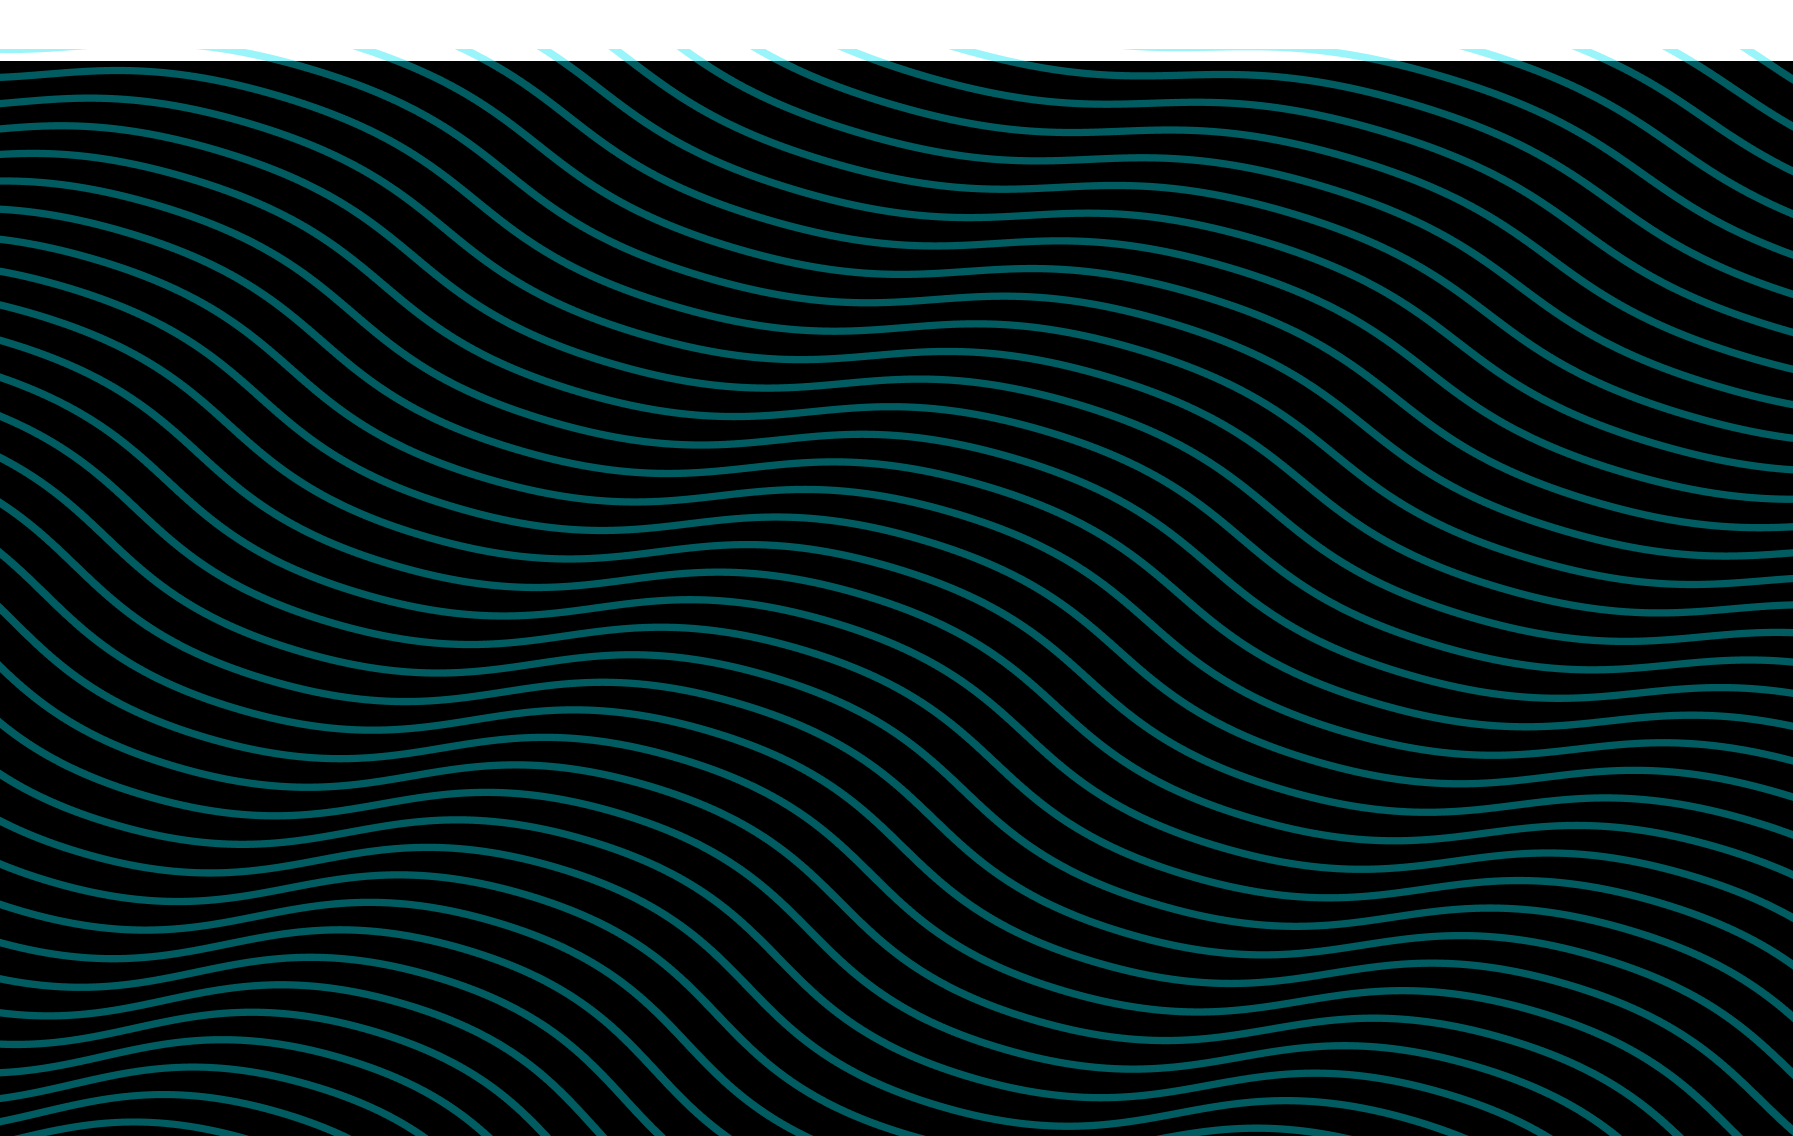
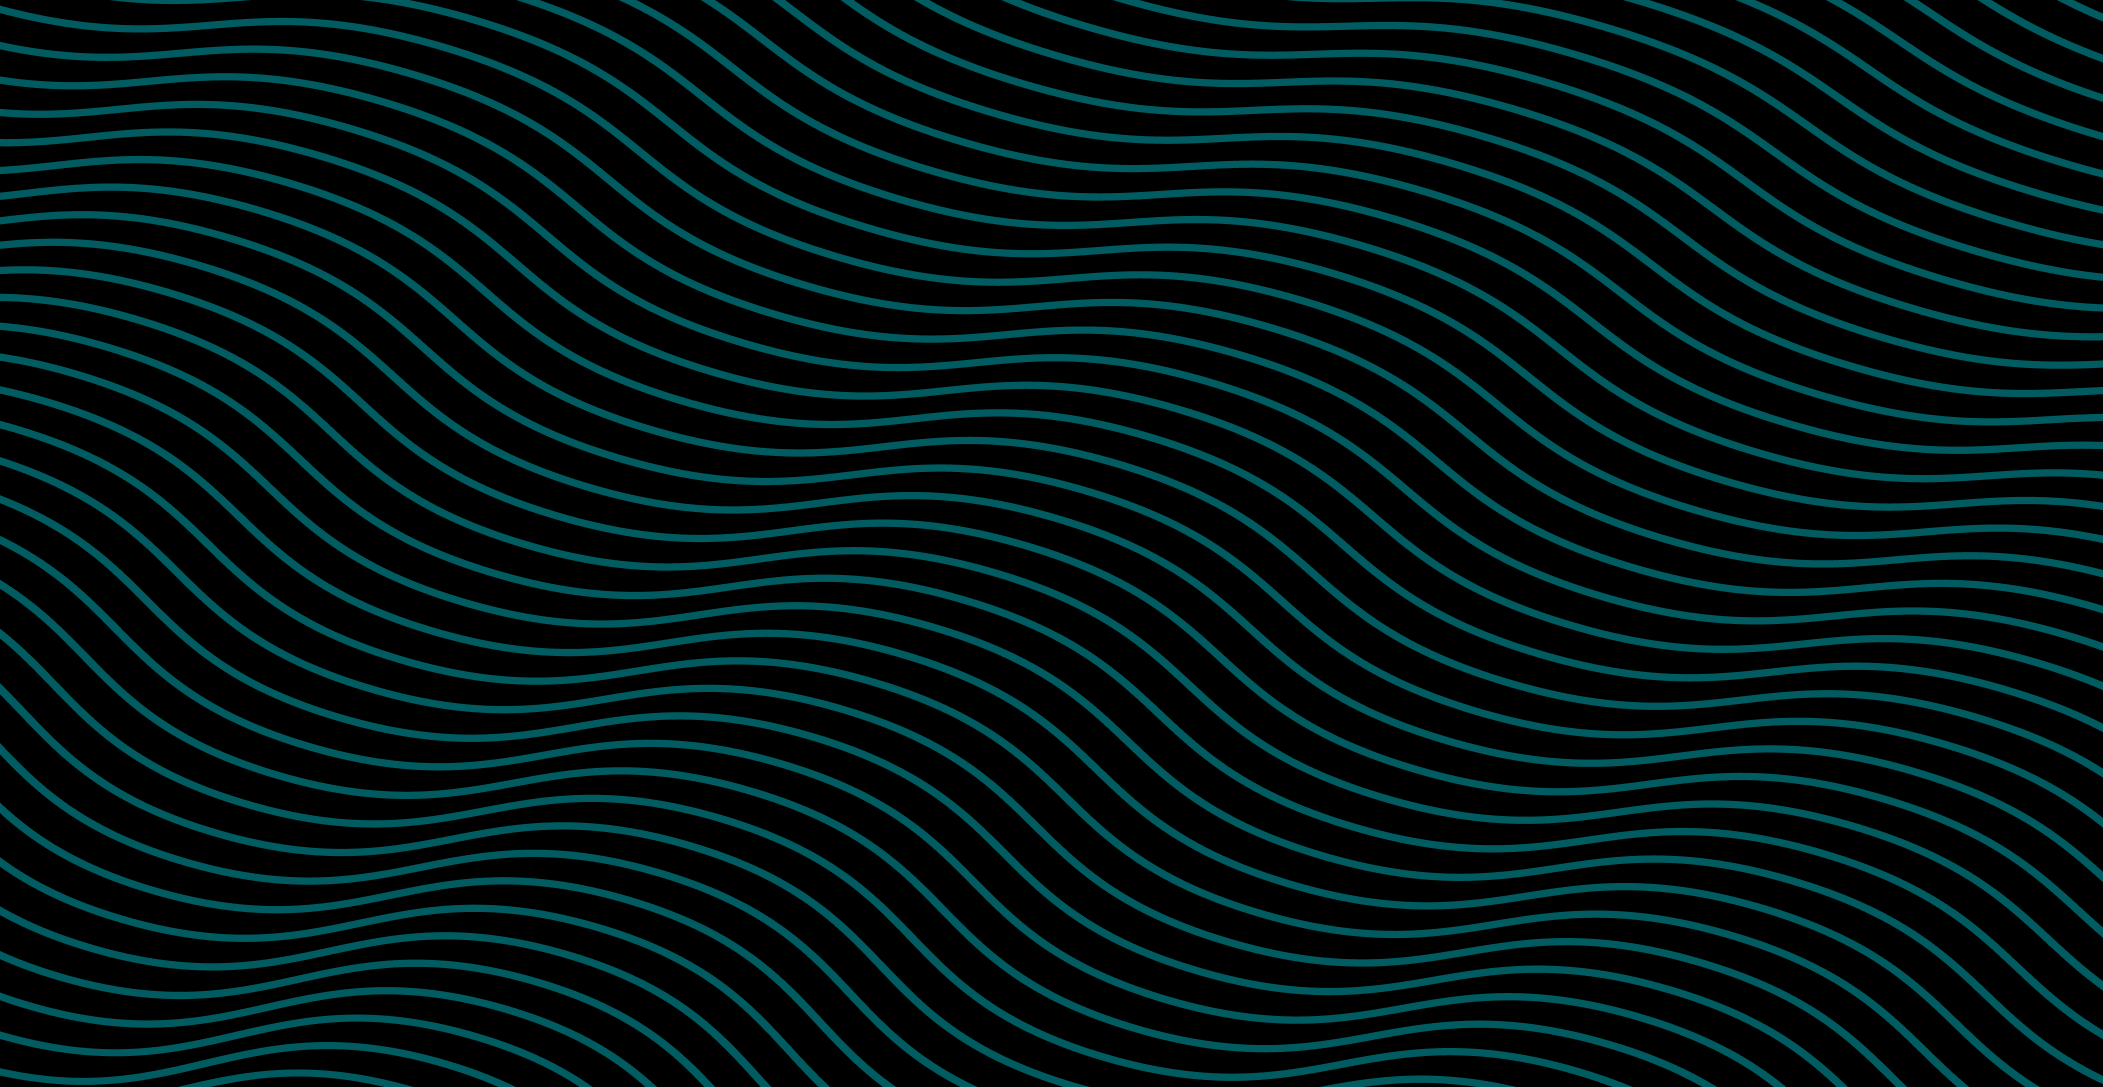
narniah

diff --git a/tema/assets/css/custom.css b/tema/assets/css/custom.css
@@ -1123,7 +1123,7 @@ html .page-blog .block-with-2-post h2 a.botao-5 {
     position: relative;
     overflow: hidden;
     background-size: cover;
-    background-position: center top;
+    background-position: center bottom;
 }
 
 .produtos-ethernia-cold-smart .mobile.banner-mobile-test-fundo {
@@ -1384,6 +1384,7 @@ section.slider-images-text-2-init ul.slick-dots {
 .init-bloco-2-text {
     display: flex;
     align-items: center;
+    justify-content: center;
 }
 
 .init-bloco-2-text>div {
@@ -1391,16 +1392,16 @@ section.slider-images-text-2-init ul.slick-dots {
     align-items: center;
     justify-content: center;
     min-height: 200px;
-    padding: 21px;
     text-align: center;
-    background: red;
     margin: 10px;
     border-radius: 50px;
-    width: 100%;
     color: #fff;
-    font-weight: 600;
-    font-size: 1.4rem;
-    max-width: 100%;
+    width: 416.98px;
+    font-weight: 700;
+    font-size: 28.3657px;
+    line-height: 31px;
+    padding: 20px 90px;
+    height: 256px;
 }
 
 section.bloco-2-text.css-ultraplace .init-bloco-2-text>div {
@@ -3858,9 +3859,6 @@ button.slick-arrow:before {
         width: 100% !important;
     }
 
-    .init-bloco-2-text {
-        flex-direction: column;
-    }
 
     .boxes-img-text>.container {
         flex-direction: column;
@@ -3958,11 +3956,7 @@ button.slick-arrow:before {
         font-size: 1.1rem;
     }
 
-    .init-bloco-2-text>div {
-        min-height: 100px;
-        font-size: 1.1rem;
-        border-radius: 19px !important;
-    }
+
 
     section.bloco-3-text>.container {
         padding: 0;
@@ -4472,6 +4466,16 @@ div[aria-label="Slide"] {
     font-family: "Gotham", sans-serif;
     font-weight: 700;
     text-transform: uppercase;
+}
+
+.single-produtos .botao-6 {
+    padding-top: 32px;
+    height: auto;
+    padding-bottom: 32px;
+    font-size: 19.0561px;
+    font-family: gotham black;
+    border-radius: 46.6873px;
+    width: 319.67px;
 }
 
 .botao-6:hover {
@@ -6617,7 +6621,7 @@ title-top-prod {
     }
 
     section.bloco-2-text {
-        margin: 0;
+        margin-top: -40px;
     }
 }
 
@@ -6970,5 +6974,21 @@ title-top-prod {
     html .single-produtos .botao-6 {
     width: 237.73px;
     font-size: 12.5px;
+    height: auto;
+    padding: 13px 22px;
+}
+
+.init-bloco-2-text>div {
+    width: 331px;
+    height: auto;
+    min-height: 85px;
+    font-size: 14px;
+    line-height: 15px;
+    border-radius: 13px;
+    padding: 10px 35px;
+}
+
+.init-bloco-2-text {
+    flex-direction: column;
 }
 }

diff --git a/tema/templates/components/banner-principal-produtos-v1/style.css b/tema/templates/components/banner-principal-produtos-v1/style.css
@@ -12,6 +12,7 @@
     display: block;
     background-size: cover;
     background-repeat: no-repeat;
+    background-position: bottom;
 }
 
 .imagem-frente-v1 {
